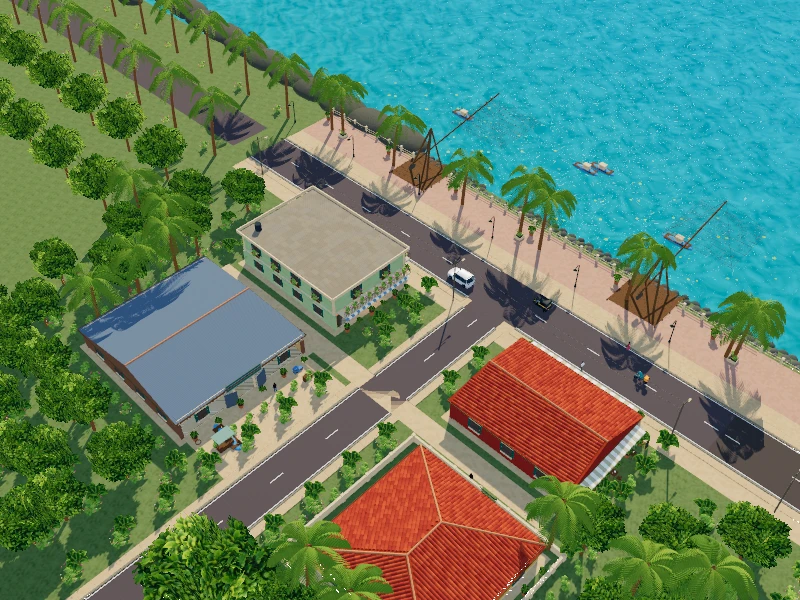
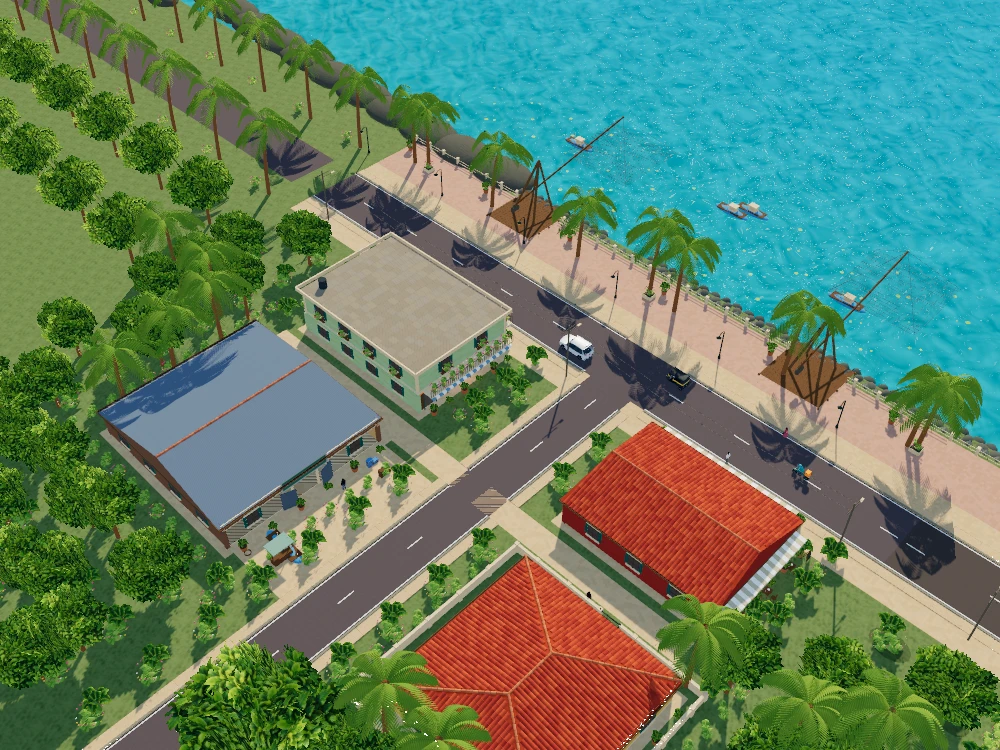
Refine Scene 1 frontage, roof construction and gameplay framing

diff --git a/src/scenes.js b/src/scenes.js
@@ -100,7 +100,9 @@ export function createSceneArt(renderer,skyTexture) {
   }
   function tiledFace(points,m){
    poly(points,m);if(m!==tile)return;
-   const world=points.map(vec),base=world[0],u=world[1].clone().sub(base).normalize(),normal=world[1].clone().sub(base).cross(world[2].clone().sub(base)).normalize();if(normal.y<0)normal.negate();if(normal.y<.15)return;
+   const world=points.map(vec),base=world[0],normal=world[1].clone().sub(base).cross(world[2].clone().sub(base)).normalize();if(normal.y<0)normal.negate();if(normal.y<.15)return;
+   // Rows follow the level eaves; each barrel then runs down the roof slope.
+   const u=new THREE.Vector3(0,1,0).cross(normal).normalize();
    const v=u.clone().cross(normal).normalize(),outline=world.map(p=>{const q=p.clone().sub(base);return[q.dot(u),q.dot(v)]}),r=bounds(outline),tiles=[];
    function contained(x,y){let found=false;for(let i=0,j=outline.length-1;i<outline.length;j=i++){const a=outline[i],b=outline[j];if((a[1]>y)!==(b[1]>y)&&x<(b[0]-a[0])*(y-a[1])/(b[1]-a[1])+a[0])found=!found}return found;}
    const tileScale=phase===1?1.35:1;
@@ -120,13 +122,18 @@ export function createSceneArt(renderer,skyTexture) {
    if(b.roof.shape==='single_pitch'){poly([a,bb,[c[0],c[1],top],[d[0],d[1],top]],m);return;}
    const ns=b.roof.ridge_axis==='north-south'||(b.roof.shape==='hip'&&y1-y0>x1-x0),hip=b.roof.shape==='hip',cx=(x0+x1)/2,cy=(y0+y1)/2;
    const inset=hip?Math.min(x1-x0,y1-y0)*.35:0,r1=ns?[cx,y0+inset,top]:[x0+inset,cy,top],r2=ns?[cx,y1-inset,top]:[x1-inset,cy,top];
-   const face=m===tile?tiledFace:poly;
-   if(ns){face([a,bb,r1],hip?m:mat(pigment(b.walls),b.id==='B_WAREHOUSE'?'brick':/laterite|brick/.test(b.walls)?'stone':'plaster'));face([c,d,r2],hip?m:mat(pigment(b.walls),b.id==='B_WAREHOUSE'?'brick':/laterite|brick/.test(b.walls)?'stone':'plaster'));face([a,r1,r2,d],m);face([bb,c,r2,r1],m);}else{face([a,bb,r2,r1],m);face([d,r1,r2,c],m);face([a,r1,d],hip?m:mat(pigment(b.walls),b.id==='B_WAREHOUSE'?'brick':/laterite|brick/.test(b.walls)?'stone':'plaster'));face([bb,c,r2],hip?m:mat(pigment(b.walls),b.id==='B_WAREHOUSE'?'brick':/laterite|brick/.test(b.walls)?'stone':'plaster'));}
-   beam(r1,r2,.15,mat('#d48758'));if(hip){for(const [p,q]of(ns?[[a,r1],[bb,r1],[c,r2],[d,r2]]:[[a,r1],[d,r1],[bb,r2],[c,r2]]))beam(p,q,.14,mat('#d48758'));}
+   const face=m===tile?tiledFace:poly,endMaterial=hip?m:mat(pigment(b.walls),b.id==='B_WAREHOUSE'||current.key==='p1-scene_01'&&b.id==='B_SHED'?'brick':/laterite|brick/.test(b.walls)?'stone':'plaster');
+   if(ns){face([a,bb,r1],endMaterial);face([c,d,r2],endMaterial);face([a,r1,r2,d],m);face([bb,c,r2,r1],m);}else{face([a,bb,r2,r1],m);face([d,r1,r2,c],m);face([a,r1,d],endMaterial);face([bb,c,r2],endMaterial);}
+   function ridge(p,q,r){
+    if(phase!==1){beam(p,q,r,mat('#d48758'));return;}
+    const length=Math.hypot(...p.map((v,i)=>q[i]-v)),count=Math.ceil(length/.52),at=t=>p.map((v,i)=>v+(q[i]-v)*t);
+    for(let i=0;i<count;i++)beam(at(i/count),at(Math.min(1,(i+.95)/count)),r,mat(['#c7683e','#cb7046','#d47a4c'][i%3]));
+   }
+   ridge(r1,r2,.15);if(hip){for(const [p,q]of(ns?[[a,r1],[bb,r1],[c,r2],[d,r2]]:[[a,r1],[d,r1],[bb,r2],[c,r2]]))ridge(p,q,.14);}
    for(const [p,q]of [[a,bb],[bb,c],[c,d],[d,a]])beam(p,q,.07,darkWood);
   }
   function building(b){
-   const waterfrontCafe=current.key==='p1-scene_01'&&b.id==='B_CAFE',waterfrontBakery=current.key==='p1-scene_01'&&b.id==='B_BAKERY';
+   const waterfrontCafe=current.key==='p1-scene_01'&&b.id==='B_CAFE',waterfrontBakery=current.key==='p1-scene_01'&&b.id==='B_BAKERY',waterfrontShed=current.key==='p1-scene_01'&&b.id==='B_SHED';
    const [x0,y0,x1,y1]=b.rect,w=x1-x0,d=y1-y0,cx=(x0+x1)/2,cy=(y0+y1)/2,e=b.height,shopTop=waterfrontCafe?3.0:2.8;
    const view=current.reference_views.find(c=>c.file==='02_PLAYER_GAMEPLAY.png')||current.reference_views[0],dx=view.target_position_m[0]-view.camera_position_m[0],dy=view.target_position_m[1]-view.camera_position_m[1],nearFace=Math.abs(dx)>Math.abs(dy)?(dx>0?'west':'east'):(dy>0?'south':'north'),openDirs=b.loading_door_size_m?[b.direction]:[...new Set([b.direction,nearFace])];
    if(phase===1){openDirs.splice(0,openDirs.length,b.direction);for(const entrance of b.entrances.slice(1)){const [x,y]=entrance.position,dir=x===x0?'west':x===x1?'east':y===y0?'south':'north';if(!openDirs.includes(dir))openDirs.push(dir);}}
@@ -134,10 +141,11 @@ export function createSceneArt(renderer,skyTexture) {
    if(waterfrontCafe)openDirs.splice(0,openDirs.length,'east','south');
    if(waterfrontBakery)openDirs.splice(0,openDirs.length,'south');
    const facade=dir=>{const ew=dir==='east'||dir==='west',out=dir==='east'||dir==='north'?1:-1,fx=ew?(dir==='east'?x1:x0):cx,fy=ew?cy:(dir==='north'?y1:y0),angle=dir==='east'?Math.PI/2:dir==='west'?-Math.PI/2:dir==='north'?Math.PI:0;return{ew,length:ew?d:w,angle,place:(a,z,o)=>ew?[fx+out*o,fy+a,z]:[fx+a,fy+out*o,z]};};
-   rect([x0-1,y0-1,x1+1,y1+1],paving,.15);const shell=box(w,d,e,mat(pigment(b.walls),b.id==='B_WAREHOUSE'?'brick':/laterite|brick/.test(b.walls)?'stone':'plaster'),[cx,cy,e/2]);collide(b.rect,b.id);shell.updateMatrixWorld(true);const measured=new THREE.Box3().setFromObject(shell);objects.at(-1).renderedRect=[measured.min.x-origin[0],-measured.max.z-origin[1],measured.max.x-origin[0],-measured.min.z-origin[1]];objects.at(-1).renderedHeight=measured.max.y-measured.min.y;
+   const wallKind=b.id==='B_WAREHOUSE'||waterfrontShed?'brick':/laterite|brick/.test(b.walls)?'stone':'plaster',wallColor=waterfrontBakery?'#20b5a7':pigment(b.walls);
+   rect([x0-1,y0-1,x1+1,y1+1],paving,.15);const shell=box(w,d,e,mat(wallColor,wallKind),[cx,cy,e/2]);collide(b.rect,b.id);shell.updateMatrixWorld(true);const measured=new THREE.Box3().setFromObject(shell);objects.at(-1).renderedRect=[measured.min.x-origin[0],-measured.max.z-origin[1],measured.max.x-origin[0],-measured.min.z-origin[1]];objects.at(-1).renderedHeight=measured.max.y-measured.min.y;
    if(b.awning){const f=facade(nearFace),lamp=new THREE.PointLight('#ffbc61',8,12,2);lamp.position.copy(vec(f.place(0,2.2,-1.1)));root.add(lamp);}
    if(b.awning||b.loading_door_size_m){
-    root.remove(shell);const gh=Math.min(b.loading_door_size_m?.height||shopTop,e),paint=mat(pigment(b.walls),b.id==='B_WAREHOUSE'?'brick':/laterite|brick/.test(b.walls)?'stone':'plaster');if(e>gh)box(w,d,e-gh,paint,[cx,cy,gh+(e-gh)/2]);for(const dir of['east','west','north','south'])if(!openDirs.includes(dir)){const f=facade(dir);box(f.length,.24,gh,paint,f.place(0,gh/2,0),f.angle);}box(w,d,.12,wood,[cx,cy,.12]);box(w,d,.14,concrete,[cx,cy,gh]);
+    root.remove(shell);const gh=Math.min(b.loading_door_size_m?.height||shopTop,e),paint=mat(wallColor,wallKind);if(e>gh)box(w,d,e-gh,paint,[cx,cy,gh+(e-gh)/2]);for(const dir of['east','west','north','south'])if(!openDirs.includes(dir)){const f=facade(dir);box(f.length,.24,gh,paint,f.place(0,gh/2,0),f.angle);}box(w,d,.12,wood,[cx,cy,.12]);box(w,d,.14,concrete,[cx,cy,gh]);
     for(const x of[x0,x1])for(const y of[y0,y1])box(.42,.42,gh,paint,[x,y,gh/2]);
     for(const dir of['east','west','north','south'])if(!openDirs.includes(dir)){const f=facade(dir);box(f.length-.5,.025,gh-.2,new THREE.MeshStandardMaterial({color:'#bf9860',emissive:'#573d1d',emissiveIntensity:.35,roughness:.9}),f.place(0,gh/2,-.15),f.angle);}
     const interior=/CAFE|BAKERY|RESTAURANT|SEAFOOD|SNACK|TAKEAWAY|TEA|GROCERY|PROVISION/.test(b.id)?(b.id==='B_CAFE'?'cafe':b.id==='B_BAKERY'?'bakery':/GROCERY|PROVISION/.test(b.id)?'grocery':'restaurant'):null;
@@ -155,6 +163,7 @@ export function createSceneArt(renderer,skyTexture) {
    if(phase===1){
     box(w+.38,d+.38,.16,concrete,[cx,cy,e-.16]);box(w+.5,d+.5,.09,concrete,[cx,cy,e-.04]);
     for(const x of[x0+.1,x1-.1])for(const y of[y0+.1,y1-.1])box(.3,.3,Math.max(.2,e-shopTop),concrete,[x,y,shopTop+Math.max(.2,e-shopTop)/2]);
+    if(['hip','gable'].includes(b.roof.shape))box(w+.95,d+.95,.11,mat('#795236','wood'),[cx,cy,e-.025]);
    }
    roof(b);if(current.key==='p1-scene_04'&&b.id==='B_BAKERY'){box(.8,.14,1.05,concrete,[x0-.05,cy,5],-Math.PI/2);box(.59,.16,.86,darkWood,[x0-.14,cy,5],-Math.PI/2);box(.43,.02,.68,glass,[x0-.24,cy,5],-Math.PI/2);}
    if(b.id==='B_CAFE'){box(w+.25,d+.25,.16,concrete,[cx,cy,waterfrontCafe?3.2:2.65]);box(w+.18,d+.18,.09,concrete,[cx,cy,waterfrontCafe?3.4:2.85]);}
@@ -188,13 +197,25 @@ export function createSceneArt(renderer,skyTexture) {
    const shopGlass=new THREE.MeshPhysicalMaterial({color:'#63726a',transparent:true,opacity:/RESTAURANT|CAFE|SEAFOOD|SNACK/.test(b.id)?.08:.22,roughness:.14,metalness:.05,side:THREE.DoubleSide,depthWrite:false});
    if(b.awning){
     if(waterfrontBakery){
-     const f=facade('south'),paint=mat(pigment(b.walls),'plaster'),frame=mat('#79552d','wood');
+     const f=facade('south'),paint=mat(wallColor,'plaster'),frame=mat('#79552d','wood');
      for(const side of[-1,1])box(1.1,.3,shopTop,paint,f.place(side*(w/2-.55),shopTop/2,.06));
      box(w,.3,.55,paint,f.place(0,.275,.06));
      for(const a of[-3.5,-1.75,0,1.75,3.5])box(.14,.18,shopTop-.55,frame,f.place(a,(shopTop+.55)/2,.22));
      for(const z of[.6,1.6,shopTop-.1])box(w-2,.18,.12,frame,f.place(0,z,.22));
      box(1.55,.16,2.5,frame,f.place(.85,1.3,.28));box(1.3,.035,2.1,mat('#574d38'),f.place(.85,1.35,.38));box(.06,.10,.25,mat('#cead63'),f.place(1.3,1.4,.45));
      const door=facade('east');box(1.65,.12,2.8,darkWood,door.place(0,1.4,.18),door.angle);box(1.35,.03,2.4,glass,door.place(0,1.5,.26),door.angle);
+     for(const [center,width]of[[-3.5,4.6],[3.75,3.8]]){
+      box(width,.15,2.15,mat('#6d482a','wood'),f.place(center,1.4,-.55));
+      for(const z of[.7,1.35,2]){
+       box(width,.55,.1,mat('#b77a38','wood'),f.place(center,z,-.25));
+       const count=Math.floor(width/.6);
+       for(let i=0;i<count;i++){
+        const along=center+(i-(count-1)/2)*.59,loaf=mesh(geometry('bakeryLoaf',()=>new THREE.SphereGeometry(.16,12,8)),mat(i%3?'#e8b461':'#ce8d3c','',.95),f.place(along,z+.17,-.14));loaf.scale.set(1.6,.8,.85);
+        for(const cut of[-.12,0,.12])box(.025,.17,.015,mat('#ba7e3c'),f.place(along+cut,z+.29,-.14));
+       }
+      }
+      for(const side of[-1,1])box(.13,.6,2.2,wood,f.place(center+side*width/2,1.42,-.2));
+     }
     }
     for(const dir of openDirs){const f=facade(dir),ew=f.ew,L=f.length-1.4,ang=f.angle,p=f.place;
 
@@ -203,6 +224,15 @@ export function createSceneArt(renderer,skyTexture) {
 
     }
     if(b.id==='B_CAFE'||b.id==='B_SEAFOOD'||phase===1&&b.id==='B_RESTAURANT'){for(const dir of openDirs){const f=facade(dir),count=Math.max(2,Math.floor(f.length/4));for(let i=0;i<count;i++){const p=f.place((i-(count-1)/2)*4,0,f.ew?1.2:1.8);cafeFurniture(p[0],p[1]);}for(const a of[-f.length/2+.7,f.length/2-.7]){const p=f.place(a,0,1.5);plant(p[0],p[1],1.7,true);menuBoard(f,a);}}}
+   }
+   if(waterfrontCafe||waterfrontBakery)for(const dir of openDirs){
+    const f=facade(dir);
+    for(const side of[-1,1]){
+     const along=side*(f.length/2-.85),iron=mat('#4b4936');
+     box(.15,.12,.32,iron,f.place(along,2.25,.18),f.angle);beam(f.place(along,2.4,.18),f.place(along,2.2,.48),.025,iron);
+     mesh(geometry('cafeLampShade',()=>new THREE.ConeGeometry(.22,.18,16)),iron,f.place(along,2.27,.49));mesh(geometry('cafeLampGlobe',()=>new THREE.SphereGeometry(.12,12,8)),glow,f.place(along,2.12,.49));lightHalo(f.place(along,2.12,.49),.7);
+     if(waterfrontCafe)for(let i=0;i<5;i++){const p=f.place(along+Math.sin(i*2.4)*.28,1.2+i*.58,.3);shrub(p[0],p[1],.75+(i%2)*.15,true,p[2]);}
+    }
    }
    if(b.id==='B_GROCERY'&&current.key==='p1-scene_04'){
     const f=facade('east');for(let a=-4;a<=4;a+=2){const colors=['#91b53c','#eabc36','#d86c26','#cf4730','#adc64e'];for(let tier=0;tier<3;tier++){box(1.8,.65,.12,wood,f.place(a,.35+tier*.38,.5+tier*.24),f.angle);for(let k=0;k<18;k++)mesh(geometry('marketFruit',()=>new THREE.SphereGeometry(.075,12,10)),mat(colors[(tier+Math.round(a+4)/2+(k%7===0?3:0))%5],'',.45),f.place(a+(k%6-2.5)*.26,.47+tier*.38,.32+tier*.24+Math.floor(k/6)*.22));}for(const side of[-.8,.8])beam(f.place(a+side,0,.45),f.place(a+side,1.3,1.2),.035,wood);beam(f.place(a,2.55,.2),f.place(a,1.9,.2),.01,rail);for(let k=0;k<7;k++)mesh(geometry('marketBanana',()=>new THREE.TorusGeometry(.09,.028,8,14,2.1)),mat('#ebc22f'),f.place(a+(k%3-1)*.09,1.9-Math.floor(k/3)*.11,.2+(k%2)*.06),[0,f.angle,Math.PI*.2]);}
@@ -304,10 +334,12 @@ export function createSceneArt(renderer,skyTexture) {
    if(s.key==='p2-scene_03')wall([8,55],[30,55],1.1,concrete,{position:[18,55],width:6});
    if(phase===1){
     // Dress original lots, keeping entrances, pickup bays and public paths clear.
-    for(let x=5;x<w-3;x+=6)for(let y=5;y<d-3;y+=6){
+    for(let gridX=5;gridX<w-3;gridX+=6)for(let gridY=5;gridY<d-3;gridY+=6){
+     const waterfront=s.key==='p1-scene_01',x=gridX+(waterfront?Math.sin(gridX*7+gridY*13)*1.5:0),y=gridY+(waterfront?Math.cos(gridX*11-gridY*17)*1.4:0);
      if(s.terrain.water_region_xy&&x>64)continue;
      if(s.roads.some(r=>roadDistance(r,x,y)<r.width_m/2+3)||s.buildings.some(b=>inside(x,y,b.rect,2)||b.entrances?.some(e=>Math.hypot(x-e.position[0],y-e.position[1])<4)||b.compound&&Math.hypot(x-b.compound.gate_position[0],y-b.compound.gate_position[1])<4)||s.bays.some(b=>inside(x,y,b.rect,2))||s.landmarks?.some(l=>l.footpath_centerline?.slice(1).some((p,i)=>segmentDistance(x,y,l.footpath_centerline[i],p)<3)))continue;
-     shrub(x,y,1.8,true);plant(x+1,y+.8,2.2);if((x+y)%4===0&&s.roads.every(r=>roadDistance(r,x,y)>r.width_m/2+8))tree(x-1,y+1,7,3.1);
+     if(waterfront){const bed=mesh(geometry('gardenBed',()=>new THREE.CircleGeometry(1,14)),mat('#8d9766','grass'),[x,y,.015],[-Math.PI/2,0,x+y]);bed.scale.set(2.1,1.45,1);bed.castShadow=false;shrub(x-.8,y+.8,1.3,true);}
+     shrub(x,y,1.8,true);plant(x+1,y+.8,2.2);if((gridX+gridY)%4===0&&s.roads.every(r=>roadDistance(r,x,y)>r.width_m/2+8))tree(x-1,y+1,7,3.1);
     }
     for(const b of s.buildings){
      const [x0,y0,x1,y1]=b.rect,bay=s.bays.find(bay=>bay.target_building_id===b.id||b.entrances.some(e=>e.id===bay.target));

diff --git a/src/main.js b/src/main.js
@@ -119,17 +119,18 @@ async function start(){
  function updateURL(){const u=new URL(location.href);u.searchParams.set('phase',String(phase));u.searchParams.set('scene',current.key);history.replaceState(null,'',u);}
  function syncBike(){bike.position.set(...renderPoint([state.x,.07,-state.y],phase));bike.rotation.y=-renderHeading(state.heading,state.y,phase,state.x);}
  function cameraRide(immediate=false){
-  const settings=phase===1?({'p1-scene_01':[32,34,10,1,10,-4],'p1-scene_02':[32,34,12,1,6,2],'p1-scene_03':[42,48,10,1,26,20],'p1-scene_04':[32,36,20,1,8,-3]})[current.key]:({ 'p2-scene_01':[8.5,4.4,6,1,.4,.35],'p2-scene_02':[6.3,3.8,6,1.1,.4,.35],'p2-scene_03':[7,2.6,6,.85,1.65,-1],'p2-scene_04':[5.2,2.2,6,1.65,1.2,.8]})[current.key];
+  const settings=phase===1?({'p1-scene_01':[24,25,10,1,10,-5],'p1-scene_02':[32,34,12,1,6,2],'p1-scene_03':[42,48,10,1,26,20],'p1-scene_04':[32,36,20,1,8,-3]})[current.key]:({ 'p2-scene_01':[8.5,4.4,6,1,.4,.35],'p2-scene_02':[6.3,3.8,6,1.1,.4,.35],'p2-scene_03':[7,2.6,6,.85,1.65,-1],'p2-scene_04':[5.2,2.2,6,1.65,1.2,.8]})[current.key];
   const [behind,height,ahead,aimHeight,lateral,aimLateral]=settings,direction=phase===1&&current.key==='p1-scene_03'?0:renderHeading(state.heading,state.y,phase,state.x),forward=new THREE.Vector3(Math.sin(direction),0,-Math.cos(direction)),right=new THREE.Vector3(Math.cos(direction),0,Math.sin(direction)),p=bike.position.clone(),eye=p.clone().addScaledVector(forward,-behind).addScaledVector(right,lateral),aim=p.clone().addScaledVector(forward,ahead).addScaledVector(right,aimLateral);eye.y=height;aim.y=aimHeight;if(immediate)camera.position.copy(eye);else camera.position.lerp(eye,.14);camera.lookAt(aim);return aim;
  }
  function setCamera(value){
+  const gameplayFov=phase===1?(current.key==='p1-scene_03'?48:current.key==='p1-scene_01'?44:40):50;
   renderer.shadowMap.needsUpdate=true;
   renderedView=null;pendingView=null;mode=value;controls.enabled=value==='orbit';$('camera-select').value=value==='orbit'?'01_MASTER_SPATIAL.png':value;state.speed=0;keys.clear();held.clear();
-  if(value==='ride'){camera.fov=phase===1?(current.key==='p1-scene_03'?48:40):50;cameraRide(true);if(reference)toggleReference(false)}
+  if(value==='ride'){camera.fov=gameplayFov;cameraRide(true);if(reference)toggleReference(false)}
   else{
    const v=current.reference_views.find(v=>v.file===(value==='orbit'?'01_MASTER_SPATIAL.png':value))||current.reference_views[0];camera.position.set(...renderPoint(worldPoint(v.camera_position_m,current.origin),phase));controls.target.set(...renderPoint(worldPoint(v.target_position_m,current.origin),phase));camera.lookAt(controls.target);camera.fov=phase===1?40:value.startsWith('01')||value==='orbit'?48:56;setReferenceImage(v);
   }
-  if(value==='02_PLAYER_GAMEPLAY.png'){controls.target.copy(cameraRide(true));camera.fov=phase===1?(current.key==='p1-scene_03'?48:40):50;}
+  if(value==='02_PLAYER_GAMEPLAY.png'){controls.target.copy(cameraRide(true));camera.fov=gameplayFov;}
   resize();camera.updateProjectionMatrix();$('ride-view').classList.toggle('active',value==='ride');$('overview').classList.toggle('active',value==='orbit');marker.visible=value==='ride';$('order').style.visibility=value==='ride'?'visible':'hidden';
   if(value!=='ride')for(const n of npcs){n.group.position.copy(n.start);n.person.animate(1.2,0,n.referenceWalking||false,0)}
   lastRender=0;

diff --git a/docs/scene-reconstruction.md b/docs/scene-reconstruction.md
@@ -13,7 +13,7 @@ The source axes are east/north/up. The mapping to Three.js is `[x + originX, z +
 
 Geometry is derived from the JSON rather than an image used as a skybox or ground plane. Camera presets change the camera only. The master/player captures produced by the browser check contain actual modeled WebGL geometry. Reference overlays are explicitly labeled. Runtime audits compare modeled building footprint records with the calibrated layouts; paired endpoint positions and widths are checked directly.
 
-V2 changes Phase 1 to an elevated oblique miniature-city view. Its build guide prioritizes unchanged metre-scale roads, footprints and seams; camera positions are approximate starting points. The Phase 1 runtime therefore no longer moves or compresses the cafe, bakery, pier, shore, buildings or connections, and no longer bends the waterfront. The 8-metre waterfront road, full promenade and supplied entrances are retained. An elevated follow camera (40 degrees, or 48 degrees for the heritage side view) keeps roofs, traffic and water visible while the rider stays at its original physical scale. Other reference presets use the revised archive cameras. Phase 2 retains its urban calibration.
+V2 changes Phase 1 to an elevated oblique miniature-city view. Its build guide prioritizes unchanged metre-scale roads, footprints and seams; camera positions are approximate starting points. The Phase 1 runtime therefore no longer moves or compresses the cafe, bakery, pier, shore, buildings or connections, and no longer bends the waterfront. The 8-metre waterfront road, full promenade and supplied entrances are retained. An elevated follow camera (44 degrees for the waterfront, 48 degrees for the heritage side view, and 40 degrees elsewhere) keeps roofs, traffic and water visible while the rider stays at its original physical scale. Other reference presets use the revised archive cameras. Phase 2 retains its urban calibration.
 
 Scene 1 includes two cafe storefront faces, warm framed glazing, shutter window planters, the teal bakery display, potted promenade planting, drooping palm crowns with individual folded leaflets, shoreline boulders and water plants. Traffic, chairs and people are positioned around the restored source building lots. The pier retains its specified footprint and single-pitch canopy. The independent images can disagree about canopy materials and facade details; source geometry is authoritative. Windows, foliage and material maps remain authored approximations.
 
@@ -40,3 +40,9 @@ All four V2 scenes share frontage paving and grouped planting that avoids source
 The follow-up pass restores contact shading below 900 CSS pixels and native high-density color rendering up to 2×. Phase 1 gains larger clay barrel tiles with irregular terracotta colors, lightly beveled building edges, layered cornices, window lintels and brackets, fuller flower boxes, segmented raised curbs and narrow gutters. The waterfront cafe and home gardens gain layered planting without changing the source road, bay or building bounds. Palm leaflets cast real silhouette shadows. Grass has multiscale surface variation, and the sea uses irregular wave perturbations and color patches instead of regular sine stripes. Exposure is reduced from 1.25 to 1.15 to retain material color in direct sunlight.
 
 Visual review uses actual Scene 1 browser captures, followed by all eight Phase 1 master/player captures, source-dimension and connected-route checks. These improve the authored scene; they do not certify an exact match to the supplied illustration. High-density rendering and always-on occlusion still require real-device performance evaluation.
+
+## Scene 1 facade and composition pass
+
+The waterfront follow camera moves from 34 to 25 metres high and from 32 to 24 metres behind the rider, with a 44-degree field of view. This brings the rider and cafe frontage closer while keeping the street, junction and shore in view; the master camera retains the whole-block view. No building footprint, rider scale, delivery bay, road or connection is moved.
+
+Roof tile rows now follow horizontal eaves and the barrels run downhill, rather than inheriting the arbitrary first edge of each roof polygon. Segmented terracotta ridge caps and timber soffits complete the roof edges. The waterfront bakery adds modeled shelves, loaves and scoring behind its display glazing. Cafe and bakery facades add warm wall lamps, and the cafe gains flowering climbers. The shed uses masonry on its walls. Scene 1 yard planting uses staggered clusters and garden beds instead of a regular grid.
